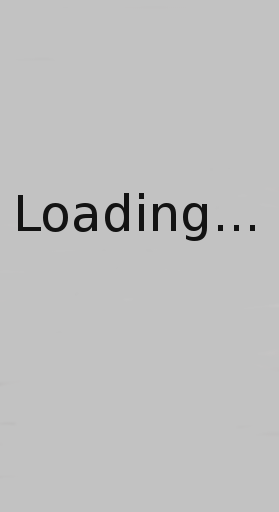
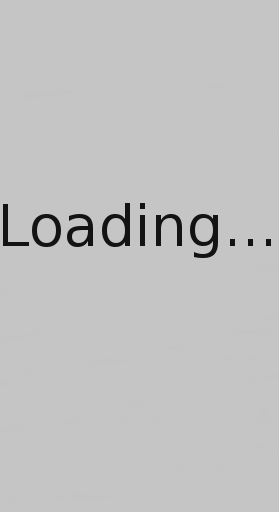
Match loading and no image sizes with the expected image size. Do not redundantly load duplicated images.

diff --git a/src/com/google/gct/testing/ScreenshotComparisonPanel.java b/src/com/google/gct/testing/ScreenshotComparisonPanel.java
@@ -15,11 +15,13 @@
  */
 package com.google.gct.testing;
 
+import com.android.annotations.Nullable;
 import com.google.common.base.Function;
 import com.google.common.collect.Iterables;
 import com.google.common.collect.Lists;
 import com.google.gct.testing.dimension.CloudTestingType;
 import com.google.gct.testing.dimension.GoogleCloudTestingDimension;
+import com.google.gct.testing.dimension.OrientationDimension;
 import com.google.gct.testing.results.GoogleCloudTestProxy;
 import com.google.gct.testing.ui.CopyImageToClipboard;
 import com.google.gct.testing.ui.Tab;
@@ -28,6 +30,7 @@ import com.google.gct.testing.ui.WipePanel;
 import com.intellij.execution.testframework.AbstractTestProxy;
 import com.intellij.openapi.fileChooser.FileSaverDescriptor;
 import com.intellij.openapi.fileChooser.ex.FileSaverDialogImpl;
+import com.intellij.openapi.util.Pair;
 import com.intellij.openapi.vfs.VirtualFileWrapper;
 import com.intellij.util.ui.UIUtil;
 
@@ -50,6 +53,8 @@ import static com.intellij.icons.AllIcons.RunConfigurations.*;
 import static java.awt.Color.BLACK;
 
 public class ScreenshotComparisonPanel implements ScreenshotComparisonHeaderPanelListener, ConfigurationResultListener {
+
+  private enum StaticImageKind {LOADING, NO_IMAGE};
 
   public static final Function<GoogleCloudTestingTypeSelection, CloudTestingType> GET_SELECTED_TYPE = new Function<GoogleCloudTestingTypeSelection, CloudTestingType>() {
     @Override
@@ -82,21 +87,29 @@ public class ScreenshotComparisonPanel implements ScreenshotComparisonHeaderPane
 
   private static final int MAX_IMAGE_WIDTH = 533;
   private static final int MAX_IMAGE_HEIGHT = 533;
-  private static final int NO_IMAGE_WIDTH = 300;
+  private static final int PORTRAIT_WIDTH = 300;
+  private static final int LANDSCAPE_HEIGHT = 300;
 
   //private static final int IMAGE_WIDTH = 300;
   //private static int imageHeight = 550;
-  private static final BufferedImage NO_IMAGE;
+  private static final BufferedImage NO_IMAGE_PORTRAIT;
+  private static final BufferedImage NO_IMAGE_LANSCAPE;
   private static final BufferedImage LOADING_PORTRAIT;
+  private static final BufferedImage LOADING_LANDSCAPE;
 
   private UpdateImageThread updateImageThread;
   private final Object lock;
+  private boolean isLoaded;
 
   static {
     try {
-      NO_IMAGE = ImageIO.read(ScreenshotComparisonPanel.class.getResourceAsStream("NoImage.png"));
-      NO_IMAGE.flush();
+      NO_IMAGE_PORTRAIT = ImageIO.read(ScreenshotComparisonPanel.class.getResourceAsStream("NoImagePortrait.png"));
+      NO_IMAGE_PORTRAIT.flush();
+      NO_IMAGE_LANSCAPE = ImageIO.read(ScreenshotComparisonPanel.class.getResourceAsStream("NoImageLandscape.png"));
+      NO_IMAGE_LANSCAPE.flush();
       LOADING_PORTRAIT = ImageIO.read(ScreenshotComparisonPanel.class.getResourceAsStream("LoadingPortrait.png"));
+      LOADING_PORTRAIT.flush();
+      LOADING_LANDSCAPE = ImageIO.read(ScreenshotComparisonPanel.class.getResourceAsStream("LoadingLandscape.png"));
       LOADING_PORTRAIT.flush();
     }
     catch (IOException e) {
@@ -106,12 +119,18 @@ public class ScreenshotComparisonPanel implements ScreenshotComparisonHeaderPane
 
   private BufferedImage currentImage;
 
+  private Icon referenceIcon = null;
 
-  public ScreenshotComparisonPanel(ScreenshotComparisonDialog parent, AbstractTestProxy testTreeRoot, CloudTestConfigurationImpl configuration,
+
+  public ScreenshotComparisonPanel(ScreenshotComparisonDialog parent, @Nullable ScreenshotComparisonPanel clonedPanel,
+                                   AbstractTestProxy testTreeRoot, CloudTestConfigurationImpl configuration,
                                    ConfigurationInstance configurationInstance, TestName currentTest, int currentStep,
                                    Map<String, ConfigurationResult> results) {
     lock = this;
     this.parent = parent;
+    if (clonedPanel != null) {
+      referenceIcon = clonedPanel.myImageLabel.getIcon();
+    }
     this.testTreeRoot = testTreeRoot;
     this.configuration = configuration;
     selectedConfigurationInstance = configurationInstance;
@@ -127,10 +146,10 @@ public class ScreenshotComparisonPanel implements ScreenshotComparisonHeaderPane
     }
 
     //TODO: Dispose to avoid memory leak.
-    init();
+    init(clonedPanel);
   }
 
-  public void init() {
+  public void init(@Nullable ScreenshotComparisonPanel clonedPanel) {
     if (UIUtil.isUnderDarcula()) {
       myConfigurationChooserPanel.setBackground(CloudTestingUtils.makeDarker(UIUtil.getPanelBackground(), 1));
     }
@@ -156,7 +175,7 @@ public class ScreenshotComparisonPanel implements ScreenshotComparisonHeaderPane
     bagConstraints.ipadx = 5;
 
     int index = 0;
-    for (GoogleCloudTestingDimension dimension : configuration.getDimensions()) {
+    for (final GoogleCloudTestingDimension dimension : configuration.getDimensions()) {
       JLabel label = new JLabel(dimension.getIcon());
       label.setToolTipText(dimension.getDisplayName());
 
@@ -188,9 +207,13 @@ public class ScreenshotComparisonPanel implements ScreenshotComparisonHeaderPane
               currentConfigurationResult.addConfigurationResultListener(thisPanel);
             }
             updateHeaderBar();
+            if (dimension instanceof OrientationDimension) {
+              referenceIcon = null;
+            } else {
+              referenceIcon = myImageLabel.getIcon();
+            }
             updateImage();
             parent.updateMaxStep();
-            parent.fitWindow();
           }
         });
 
@@ -219,7 +242,13 @@ public class ScreenshotComparisonPanel implements ScreenshotComparisonHeaderPane
     myImagePanel.add(myImageLabel, BorderLayout.CENTER);
 
     updateHeaderBar();
-    updateImage();
+
+    if (clonedPanel != null && clonedPanel.isLoaded) {
+      myImageLabel.setIcon(clonedPanel.myImageLabel.getIcon());
+      isLoaded = true;
+    } else {
+      updateImage();
+    }
   }
 
   public int getMaxStep() {
@@ -229,20 +258,42 @@ public class ScreenshotComparisonPanel implements ScreenshotComparisonHeaderPane
 
   private void updateImage() {
     synchronized (lock) {
+      isLoaded = false;
       if (updateImageThread != null) {
         updateImageThread.makeObsolete();
       }
       ConfigurationResult selectedConfigurationResult = getSelectedConfigurationResult();
       if (selectedConfigurationResult == null) {
-        myImageLabel.setIcon(new ImageIcon(NO_IMAGE.getScaledInstance(NO_IMAGE_WIDTH, MAX_IMAGE_HEIGHT, Image.SCALE_SMOOTH)));
-        parent.fitWindow();
+        setStaticImage(StaticImageKind.NO_IMAGE);
         return;
       }
-      myImageLabel.setIcon(new ImageIcon(LOADING_PORTRAIT.getScaledInstance(NO_IMAGE_WIDTH, MAX_IMAGE_HEIGHT, Image.SCALE_SMOOTH)));
-      parent.fitWindow();
+      setStaticImage(StaticImageKind.LOADING);
       updateImageThread = new UpdateImageThread(currentTest, currentStep, selectedConfigurationResult);
       updateImageThread.start();
     }
+  }
+
+  private void setStaticImage(StaticImageKind imageKind) {
+    BufferedImage staticImage = imageKind == StaticImageKind.LOADING
+      ? (isPortrait() ? LOADING_PORTRAIT : LOADING_LANDSCAPE)
+      : (isPortrait() ? NO_IMAGE_PORTRAIT : NO_IMAGE_LANSCAPE);
+    Pair<Integer, Integer> imageSize = getStaticImageSize();
+    myImageLabel.setIcon(new ImageIcon(staticImage.getScaledInstance(imageSize.getFirst(), imageSize.getSecond(), Image.SCALE_SMOOTH)));
+    isLoaded = imageKind != StaticImageKind.LOADING;
+    parent.fitWindow();
+  }
+
+  /**
+   * Returns a pair of (width, height).
+   */
+  private Pair<Integer, Integer> getStaticImageSize() {
+    if (referenceIcon != null) {
+      return new Pair(referenceIcon.getIconWidth(), referenceIcon.getIconHeight());
+    }
+    if (isPortrait()) {
+      return new Pair(PORTRAIT_WIDTH, MAX_IMAGE_HEIGHT);
+    }
+    return new Pair(MAX_IMAGE_WIDTH, LANDSCAPE_HEIGHT);
   }
 
   private class UpdateImageThread extends Thread {
@@ -284,8 +335,7 @@ public class ScreenshotComparisonPanel implements ScreenshotComparisonHeaderPane
             }
             currentImage = loadedImage;
             if (currentImage == null) {
-              myImageLabel.setIcon(new ImageIcon(NO_IMAGE.getScaledInstance(NO_IMAGE_WIDTH, MAX_IMAGE_HEIGHT, Image.SCALE_SMOOTH)));
-              parent.fitWindow();
+              setStaticImage(StaticImageKind.NO_IMAGE);
               return;
             }
 
@@ -314,6 +364,7 @@ public class ScreenshotComparisonPanel implements ScreenshotComparisonHeaderPane
               imageHeight = MAX_IMAGE_HEIGHT;
             }
             myImageLabel.setIcon(new ImageIcon(currentImage.getScaledInstance(imageWidth, imageHeight, Image.SCALE_SMOOTH)));
+            isLoaded = true;
             parent.fitWindow();
           }
         }
@@ -368,7 +419,7 @@ public class ScreenshotComparisonPanel implements ScreenshotComparisonHeaderPane
 
       @Override
       public void openEvent() {
-        parent.createNewScreenshotComparisonPanel(thisPanel);
+        parent.addScreenshotComparisonPanel(thisPanel);
       }
 
       @Override
@@ -425,6 +476,10 @@ public class ScreenshotComparisonPanel implements ScreenshotComparisonHeaderPane
     return results.get(selectedConfigurationInstance.getEncodedString());
   }
 
+  private boolean isPortrait() {
+    return selectedConfigurationInstance.getEncodedString().endsWith("portrait");
+  }
+
   public void stopListeningToResults() {
     ConfigurationResult selectedConfigurationResult = getSelectedConfigurationResult();
     if (selectedConfigurationResult != null ) {
@@ -445,6 +500,7 @@ public class ScreenshotComparisonPanel implements ScreenshotComparisonHeaderPane
     currentTest = test;
     if (shouldUpdateImage) {
       updateHeaderBar();
+      referenceIcon = myImageLabel.getIcon();
       updateImage();
     }
   }
@@ -453,6 +509,7 @@ public class ScreenshotComparisonPanel implements ScreenshotComparisonHeaderPane
   public void updateStep(int step, boolean shouldUpdateImage) {
     currentStep = step;
     if (shouldUpdateImage) {
+      referenceIcon = myImageLabel.getIcon();
       updateImage();
     }
   }

diff --git a/src/com/google/gct/testing/ScreenshotComparisonDialog.java b/src/com/google/gct/testing/ScreenshotComparisonDialog.java
@@ -104,14 +104,14 @@ public class ScreenshotComparisonDialog {
 
     populateHeaderPanel();
 
-    addScreenshotComparisonPanel(configurationInstance);
+    createFirstScreenshotComparisonPanel(configurationInstance);
 
     addScreenshotPanel = new AddCompareScreenshotPanel();
     //addScreenshotPanel.setHeight(UIUtil.isUnderDarcula() ? 585 : 570);
     addScreenshotPanel.addListener(new AddScreenshotListener() {
       @Override
       public void addScreenshot() {
-        createNewScreenshotComparisonPanel(screenshotPanels.get(screenshotPanels.size() - 1));
+        addScreenshotComparisonPanel(screenshotPanels.get(screenshotPanels.size() - 1));
       }
     });
 
@@ -157,10 +157,10 @@ public class ScreenshotComparisonDialog {
     return myWindow;
   }
 
-  private void addScreenshotComparisonPanel(ConfigurationInstance configurationInstance) {
+  private void createFirstScreenshotComparisonPanel(ConfigurationInstance configurationInstance) {
     ScreenshotComparisonPanel screenshotComparisonPanel =
-      new ScreenshotComparisonPanel(this, testTreeRoot, configuration, configurationInstance, (TestName)myTestComboBox.getSelectedItem(),
-                                    step, results);
+      new ScreenshotComparisonPanel(this, null, testTreeRoot, configuration, configurationInstance,
+                                    (TestName)myTestComboBox.getSelectedItem(), step, results);
     screenshotPanels.add(screenshotComparisonPanel);
     WipePanel wipePanel = screenshotComparisonPanel.getPanel();
     myAllScreenshotsPanel.add(wipePanel);
@@ -262,14 +262,15 @@ public class ScreenshotComparisonDialog {
     myIncrementStepButton.setEnabled(step < maxStep);
   }
 
-  public void createNewScreenshotComparisonPanel(ScreenshotComparisonPanel createAfterPanel) {
+  public void addScreenshotComparisonPanel(ScreenshotComparisonPanel createAfterPanel) {
     int index = 0;
     for (Component component : myAllScreenshotsPanel.getComponents()) {
       if (component == createAfterPanel.getPanel()) {
         ScreenshotComparisonPanel screenshotComparisonPanel =
-          new ScreenshotComparisonPanel(this, testTreeRoot, configuration, createAfterPanel.computeSelectedConfigurationInstance(),
-                                        (TestName)myTestComboBox.getSelectedItem(), step, results);
-        screenshotPanels.add(screenshotComparisonPanel);
+          new ScreenshotComparisonPanel(this, createAfterPanel, testTreeRoot, configuration,
+                                        createAfterPanel.computeSelectedConfigurationInstance(), (TestName)myTestComboBox.getSelectedItem(),
+                                        step, results);
+        screenshotPanels.add(index + 1, screenshotComparisonPanel);
         updateMaxStep();
         WipePanel newPanel = screenshotComparisonPanel.getPanel();
         myAllScreenshotsPanel.add(newPanel, index + 1);
